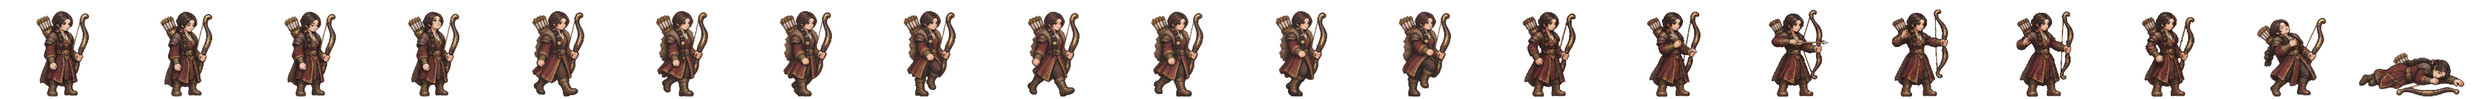
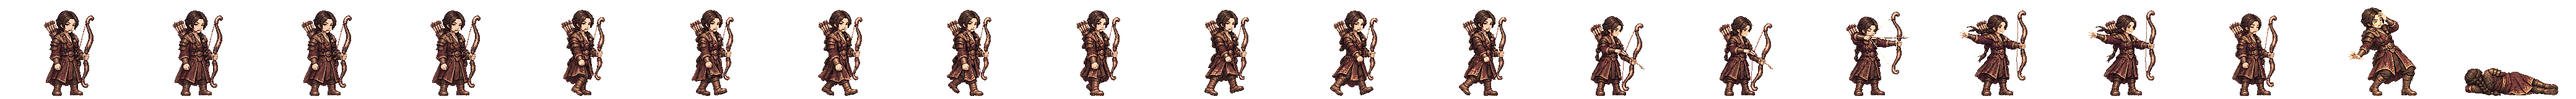
사로 달래 전투 띠를 새 방식으로: 서기·걷기·활 쏘기 네 칸·쓰러짐·맞음 (Codex 그림 · 개성 동작은 그림 도구 거절로 없음 · 활 쏘기는 한 번 다시 받음 · 활 길이 서기의 79~90%)
Claude-Session: https://claude.ai/code/session_01TRiuN7s6aDfSnaHxrkctmU

Changed region(s): [[0.0, 0.0938, 1.0, 0.9688]]

diff --git a/src/realm/data/spritePx.ts b/src/realm/data/spritePx.ts
@@ -1,3 +1,3 @@
 /** public/realm/anim-px/manifest.json 의 사본 — tools/sprite-normalize.mjs 가 만든다 (손으로 고치지 말 것). 칸 [가로, 세로] · feet = 발 줄(칸 위에서 y) · bodyPx = 서 있는 몸 키 */
 import { expandManifest } from './sprite-manifest.ts'
-export const SPRITE_PX: Readonly<Record<string, { readonly cell: readonly [number, number]; readonly feet: number; readonly bodyPx: number; readonly kind: 'general' | 'soldier' | 'folk' | 'crowd'; readonly cells: number }>> = expandManifest<{ readonly cell: readonly [number, number]; readonly feet: number; readonly bodyPx: number; readonly kind: 'general' | 'soldier' | 'folk' | 'crowd'; readonly cells: number }>([{"cell":[166,128],"feet":126,"bodyPx":124,"kind":"soldier","cells":20},{"cell":[116,128],"feet":126,"bodyPx":117,"kind":"soldier","cells":20},{"cell":[127,128],"feet":126,"bodyPx":116,"kind":"soldier","cells":20},{"cell":[269,128],"feet":126,"bodyPx":126,"kind":"soldier","cells":20},{"cell":[503,128],"feet":126,"bodyPx":127,"kind":"soldier","cells":20},{"cell":[614,128],"feet":126,"bodyPx":126,"kind":"soldier","cells":20},{"cell":[200,160],"feet":156,"bodyPx":138,"kind":"general","cells":20},{"cell":[208,160],"feet":155,"bodyPx":138,"kind":"general","cells":20},{"cell":[208,160],"feet":154,"bodyPx":138,"kind":"general","cells":20},{"cell":[304,160],"feet":155,"bodyPx":135,"kind":"general","cells":20},{"cell":[184,160],"feet":156,"bodyPx":138,"kind":"general","cells":20},{"cell":[208,160],"feet":154,"bodyPx":136,"kind":"general","cells":20},{"cell":[232,160],"feet":156,"bodyPx":138,"kind":"general","cells":20},{"cell":[208,160],"feet":156,"bodyPx":138,"kind":"general","cells":20},{"cell":[168,160],"feet":156,"bodyPx":124,"kind":"general","cells":20},{"cell":[216,160],"feet":156,"bodyPx":130,"kind":"general","cells":20},{"cell":[200,160],"feet":156,"bodyPx":116,"kind":"general","cells":20},{"cell":[192,160],"feet":156,"bodyPx":138,"kind":"general","cells":20},{"cell":[208,160],"feet":154,"bodyPx":135,"kind":"general","cells":20},{"cell":[280,160],"feet":156,"bodyPx":138,"kind":"general","cells":20},{"cell":[232,160],"feet":156,"bodyPx":134,"kind":"general","cells":20},{"cell":[144,160],"feet":156,"bodyPx":70,"kind":"general","cells":20},{"cell":[208,160],"feet":156,"bodyPx":70,"kind":"general","cells":20},{"cell":[192,160],"feet":156,"bodyPx":70,"kind":"general","cells":20},{"cell":[240,160],"feet":155,"bodyPx":138,"kind":"general","cells":20},{"cell":[192,160],"feet":156,"bodyPx":128,"kind":"general","cells":20},{"cell":[208,160],"feet":154,"bodyPx":137,"kind":"general","cells":20},{"cell":[216,160],"feet":156,"bodyPx":138,"kind":"general","cells":20},{"cell":[208,160],"feet":156,"bodyPx":134,"kind":"general","cells":20},{"cell":[208,160],"feet":154,"bodyPx":130,"kind":"general","cells":20},{"cell":[248,160],"feet":156,"bodyPx":138,"kind":"general","cells":20},{"cell":[248,160],"feet":155,"bodyPx":138,"kind":"general","cells":20},{"cell":[192,160],"feet":155,"bodyPx":138,"kind":"general","cells":20},{"cell":[192,160],"feet":156,"bodyPx":124,"kind":"general","cells":20},{"cell":[208,160],"feet":154,"bodyPx":131,"kind":"general","cells":20},{"cell":[240,160],"feet":156,"bodyPx":138,"kind":"general","cells":20},{"cell":[232,160],"feet":156,"bodyPx":73,"kind":"general","cells":20},{"cell":[224,160],"feet":156,"bodyPx":138,"kind":"general","cells":20},{"cell":[224,160],"feet":156,"bodyPx":128,"kind":"general","cells":20},{"cell":[176,160],"feet":156,"bodyPx":129,"kind":"general","cells":20},{"cell":[208,160],"feet":154,"bodyPx":139,"kind":"general","cells":20},{"cell":[232,160],"feet":155,"bodyPx":138,"kind":"general","cells":20},{"cell":[208,160],"feet":156,"bodyPx":132,"kind":"general","cells":20},{"cell":[184,160],"feet":156,"bodyPx":122,"kind":"general","cells":20},{"cell":[280,160],"feet":155,"bodyPx":133,"kind":"general","cells":20},{"cell":[176,160],"feet":156,"bodyPx":70,"kind":"general","cells":20},{"cell":[186,128],"feet":126,"bodyPx":127,"kind":"soldier","cells":20},{"cell":[298,128],"feet":126,"bodyPx":126,"kind":"soldier","cells":20},{"cell":[82,128],"feet":126,"bodyPx":114,"kind":"folk","cells":8},{"cell":[134,128],"feet":126,"bodyPx":119,"kind":"soldier","cells":20},{"cell":[380,128],"feet":126,"bodyPx":124,"kind":"soldier","cells":20},{"cell":[114,128],"feet":126,"bodyPx":115,"kind":"soldier","cells":20},{"cell":[122,128],"feet":126,"bodyPx":114,"kind":"soldier","cells":20},{"cell":[254,128],"feet":126,"bodyPx":128,"kind":"soldier","cells":20},{"cell":[438,128],"feet":126,"bodyPx":126,"kind":"soldier","cells":20},{"cell":[88,128],"feet":126,"bodyPx":113,"kind":"folk","cells":8},{"cell":[100,128],"feet":126,"bodyPx":115,"kind":"folk","cells":8},{"cell":[108,128],"feet":126,"bodyPx":115,"kind":"folk","cells":8},{"cell":[63,128],"feet":126,"bodyPx":113,"kind":"folk","cells":8},{"cell":[69,96],"feet":96,"bodyPx":96,"kind":"crowd","cells":1},{"cell":[54,96],"feet":96,"bodyPx":96,"kind":"crowd","cells":1},{"cell":[47,96],"feet":96,"bodyPx":96,"kind":"crowd","cells":1},{"cell":[49,96],"feet":96,"bodyPx":96,"kind":"crowd","cells":1},{"cell":[57,96],"feet":96,"bodyPx":96,"kind":"crowd","cells":1},{"cell":[55,96],"feet":96,"bodyPx":96,"kind":"crowd","cells":1},{"cell":[45,96],"feet":96,"bodyPx":96,"kind":"crowd","cells":1},{"cell":[53,96],"feet":96,"bodyPx":96,"kind":"crowd","cells":1},{"cell":[64,96],"feet":96,"bodyPx":96,"kind":"crowd","cells":1},{"cell":[264,160],"feet":156,"bodyPx":138,"kind":"general","cells":20},{"cell":[184,160],"feet":156,"bodyPx":124,"kind":"general","cells":20},{"cell":[256,160],"feet":156,"bodyPx":138,"kind":"general","cells":20},{"cell":[208,160],"feet":154,"bodyPx":134,"kind":"general","cells":20},{"cell":[224,160],"feet":156,"bodyPx":133,"kind":"general","cells":20},{"cell":[184,160],"feet":156,"bodyPx":137,"kind":"general","cells":20},{"cell":[176,160],"feet":156,"bodyPx":130,"kind":"general","cells":20},{"cell":[216,160],"feet":156,"bodyPx":134,"kind":"general","cells":20},{"cell":[216,160],"feet":156,"bodyPx":132,"kind":"general","cells":20},{"cell":[288,160],"feet":156,"bodyPx":138,"kind":"general","cells":20},{"cell":[192,160],"feet":156,"bodyPx":118,"kind":"general","cells":20},{"cell":[208,160],"feet":154,"bodyPx":132,"kind":"general","cells":20},{"cell":[208,160],"feet":154,"bodyPx":128,"kind":"general","cells":20},{"cell":[240,160],"feet":156,"bodyPx":128,"kind":"general","cells":20},{"cell":[184,160],"feet":156,"bodyPx":132,"kind":"general","cells":20},{"cell":[208,160],"feet":156,"bodyPx":123,"kind":"general","cells":20},{"cell":[192,160],"feet":156,"bodyPx":135,"kind":"general","cells":20},{"cell":[176,160],"feet":156,"bodyPx":116,"kind":"general","cells":20},{"cell":[272,160],"feet":156,"bodyPx":138,"kind":"general","cells":20},{"cell":[176,160],"feet":156,"bodyPx":138,"kind":"general","cells":20},{"cell":[176,160],"feet":156,"bodyPx":122,"kind":"general","cells":20},{"cell":[232,160],"feet":156,"bodyPx":127,"kind":"general","cells":20},{"cell":[184,160],"feet":156,"bodyPx":134,"kind":"general","cells":20},{"cell":[168,160],"feet":156,"bodyPx":138,"kind":"general","cells":20},{"cell":[176,160],"feet":156,"bodyPx":137,"kind":"general","cells":20},{"cell":[184,160],"feet":156,"bodyPx":133,"kind":"general","cells":20}],[["axe",0],["bandit-chief",1],["bandit-club",2],["boat",3],["bow",4],["crossbow",5],["gen-adogan",6],["gen-alpyeong",7],["gen-ara",8],["gen-areum",8],["gen-aryeong",9],["gen-bakdal",8],["gen-baram",8],["gen-bdanbi",10],["gen-beom",11],["gen-beombal",8],["gen-beomi",8],["gen-bira",12],["gen-biryu",13],["gen-budeul",8],["gen-byeol",8],["gen-daemusin",14],["gen-daeso",15],["gen-dallae2",8],["gen-dalli",8],["gen-damul",16],["gen-danbi",8],["gen-dangung",17],["gen-darae",18],["gen-dokmudeom",8],["gen-duman",19],["gen-eomni",8],["gen-eureum",20],["gen-g-bow",21],["gen-g-spear",22],["gen-g-sword",23],["gen-gaennae",8],["gen-gamsil",24],["gen-gaon",18],["gen-geota",13],["gen-geumbawi",10],["gen-geumha",25],["gen-goeun",8],["gen-gom",8],["gen-gomok",13],["gen-gureum",8],["gen-guryema",17],["gen-gwaeyu",12],["gen-haebi",8],["gen-haedal",6],["gen-haesol",8],["gen-halla",26],["gen-heo",8],["gen-hneoul",27],["gen-hogong",27],["gen-hojin",13],["gen-horselord",28],["gen-hwalmi",29],["gen-hyeokgeose",17],["gen-hyeopbo",6],["gen-irang",8],["gen-jibaekho",30],["gen-jinha",31],["gen-jita",32],["gen-jumong",33],["gen-keundol",7],["gen-maehwa",34],["gen-maenun",17],["gen-malgalgi",8],["gen-mari",35],["gen-maro",30],["gen-maryeo",13],["gen-mdallae",8],["gen-mir",6],["gen-mount",36],["gen-mulbeom",26],["gen-mulsae",26],["gen-musoe",27],["gen-noeul",8],["gen-nuri",8],["gen-ocheongan",37],["gen-odi",8],["gen-odogan",6],["gen-ogan",17],["gen-oi",38],["gen-olddaeso",20],["gen-onjo",39],["gen-pidogan",13],["gen-sagong",40],["gen-sdallae",6],["gen-sincheongan",8],["gen-singwigan",27],["gen-sinneoul",8],["gen-sobeol",41],["gen-soebi",8],["gen-soebo",42],["gen-soenun",40],["gen-sogeumbi",26],["gen-songbi",8],["gen-songyang",43],["gen-sori",8],["gen-soseono",44],["gen-suro",17],["gen-tahae",6],["gen-tneoul",8],["gen-w-bow",21],["gen-w-spear",45],["gen-waechief",13],["gen-wan",27],["gen-yeodogan",13],["gen-yucheongan",8],["gen-yusugan",30],["horse",46],["marine",47],["migrant",48],["militia",49],["pike",50],["pirate-captain",51],["pirate-sword",52],["shield",53],["spear",54],["villager-builder",55],["villager-farmer",56],["villager-porter",57],["villager-woman",58],["crowd-b1",59],["crowd-b2",60],["crowd-b3",61],["crowd-b4",62],["crowd-b5",63],["crowd-b6",64],["crowd-f1",59],["crowd-f2",64],["crowd-f3",65],["crowd-f4",66],["crowd-f5",59],["crowd-f6",67],["gen-dalbit",13],["gen-base-g-07-drunk-warrior",17],["gen-base-g-40-anya-adan",13],["gen-base-w-13-young-archer",8],["gen-base-g-03-sea-trader",35],["gen-base-w-10-pirate-captain",40],["gen-base-w-64-miri-dallae",40],["gen-base-g-41-goja-bau",35],["gen-base-g-42-dokro-garam",68],["gen-base-g-09-farmer-conscript",27],["gen-base-w-02-goguryeo-lady",8],["gen-base-w-17-mahan-pearl-diver",8],["gen-base-g-17-saro-isageum",42],["gen-base-g-18-daegaya-king",69],["gen-base-g-35-dabeol-dalgu",13],["gen-base-g-19-sabeol-veteran",27],["gen-base-w-23-usisan-whale-queen",8],["gen-base-g-36-gammun-gamdol",37],["gen-base-g-20-samul-sea-lord",70],["gen-base-g-37-eumjeup-jeup",10],["gen-base-g-38-chopal-palmae",17],["gen-base-w-75-daegaya-soemoe",8],["gen-base-g-45-dabeol-deulgae",10],["gen-base-g-04-jinhan-giant",13],["gen-base-g-08-veteran",13],["gen-base-w-18-jinhan-salt-widow",8],["gen-base-w-12-court-dancer",71],["gen-base-w-83-gyeonji-beodeul",72],["gen-base-w-05-baekje-queen",18],["gen-base-w-21-baekje-court-dancer",10],["gen-base-g-01-master-smith",73],["gen-base-g-93-jomun-solgae",74],["gen-base-g-57-bihwa-neup",35],["gen-base-w-72-eumjeup-beol",8],["gen-base-w-102-garak-dana",40],["gen-base-g-68-baekje-onnuri",13],["gen-base-w-27-mokji-jinha",6],["gen-base-g-22-ungcheon-gomnae",6],["gen-base-g-23-sangdang-soedal",13],["gen-base-g-24-wansan-onsan",6],["gen-base-g-25-balla-keunmoe",27],["gen-base-g-61-heomcheuk-bawi",27],["gen-base-g-88-wander-soeul",37],["gen-base-w-14-feast-spy",8],["gen-base-g-12-silla-youth",75],["gen-base-w-08-mahan-warrior",8],["gen-base-g-62-beonye-hanul",35],["gen-base-g-63-heomcheuk-beogeum",13],["gen-base-g-84-wander-seoneul",13],["gen-base-w-50-siljik-mulga",27],["gen-base-g-46-uga-nureongso",27],["gen-base-w-80-usan-gangchi",40],["gen-base-g-47-guga-sanyanggae",27],["gen-base-w-76-gampyeong-baetsagong",8],["gen-base-g-05-mahan-chieftain",76],["gen-base-g-58-usan-uhae",13],["gen-base-g-27-maek-maekdol",13],["gen-base-w-53-hwanna-gabi",40],["gen-base-w-29-golpo-janmul",30],["gen-base-g-53-baekje-haeru",6],["gen-base-w-71-yeonna-neoul",8],["gen-base-w-79-yangmaek-solmae",8],["gen-base-w-34-chopal-deulme",8],["gen-base-g-44-maga-malgup",77],["gen-base-w-31-dabeol-dalbit",40],["gen-base-g-51-biryuna-mulgyeol",37],["gen-base-g-48-gwanna-musoe",13],["gen-base-g-32-uga-sodu",12],["gen-base-g-49-goguryeo-sona",78],["gen-base-g-30-gwanna-soemoe",37],["gen-base-g-52-tamna-oreum",10],["gen-base-g-29-yeonna-myeongsol",33],["gen-base-w-56-dongokjeo-sogeum",71],["gen-base-g-54-mokji-mahan",12],["gen-base-g-33-jeoga-metdol",17],["gen-base-w-36-baekje-maena",8],["gen-base-w-38-sangdang-bulmae",40],["gen-base-w-39-gosaburi-galmae",8],["gen-base-w-40-mujin-munui",79],["gen-base-w-41-hwanna-beodeul",80],["gen-base-w-43-uga-nuri",70],["gen-base-w-45-tamna-oreumbi",10],["gen-base-g-60-golbeol-golgae",10],["gen-base-g-61-apdok-ap",27],["gen-base-g-62-gammun-gamnamu",6],["gen-base-g-63-chopal-yeoul",30],["gen-base-g-64-michuhol-sogeumkkun",35],["gen-base-g-65-sangdang-soemangchi",37],["gen-base-g-66-geonma-malbalgup",81],["gen-base-g-67-gosaburi-buri",82],["gen-base-g-68-mujin-bitgoeul",10],["gen-base-g-69-goryong-yong",37],["gen-base-g-70-siljik-pado",35],["gen-base-w-81-byeokjin-byeolbit",8],["gen-base-w-46-geonma-maru",8],["gen-base-w-48-mujin-mudeung",8],["gen-base-g-26-gampyeong-gaetbeol",12],["gen-base-g-60-eupcha-hangyeol",83],["gen-base-g-15-shaman-man",27],["gen-base-g-85-wander-ure",30],["gen-base-g-43-hwanna-amnok",13],["gen-base-g-50-bullae-gwaha",84],["gen-base-g-55-saro-bakdal",13],["gen-base-g-56-haseulla-gwahama",6],["gen-base-w-06-buyeo-huntress",26],["gen-base-w-22-dongye-tiger-huntress",8],["gen-base-w-25-bihwa-priestess",8],["gen-base-w-24-apdok-queen",8],["gen-base-w-61-iseo-sinae",8],["gen-base-w-26-iseo-tomboy-general",8],["gen-base-g-59-yangmaek-maekson",85],["gen-aw1-haebi",37],["gen-aw1-soseono",86],["gen-aw1-gamsil",10],["gen-aw1-mir",87],["gen-aw1-dangung",6],["gen-aw1-ara",37],["gen-aw1-jumong",88],["gen-aw1-onjo",89],["gen-aw1-base-w-83-gyeonji-beodeul",17],["gen-aw1-heo",68],["gen-aw1-base-g-38-chopal-palmae",6],["gen-aw1-base-w-25-bihwa-priestess",90],["gen-aw1-sori",91],["gen-aw1-gomok",6],["gen-aw1-irang",17],["gen-aw1-budeul",91],["gen-aw1-gom",35],["gen-aw1-sdallae",6],["gen-aw1-base-w-13-young-archer",6],["gen-aw1-base-w-36-baekje-maena",92],["gen-aw1-base-g-09-farmer-conscript",68],["gen-aw1-base-w-02-goguryeo-lady",93],["gen-aw1-haedal",10],["gen-aw1-hogong",6],["gen-aw1-maehwa",87],["gen-aw1-base-w-06-buyeo-huntress",12],["gen-aw1-base-w-08-mahan-warrior",37],["gen-aw1-base-w-29-golpo-janmul",37],["gen-aw1-base-w-31-dabeol-dalbit",17],["gen-aw1-base-w-38-sangdang-bulmae",91],["gen-aw1-bira",27],["gen-aw1-base-w-53-hwanna-gabi",91],["gen-aw1-base-w-56-dongokjeo-sogeum",87],["gen-aw1-base-w-72-eumjeup-beol",17],["gen-aw1-bdanbi",91],["gen-aw1-beom",10],["gen-aw1-beombal",10],["gen-aw1-byeol",17],["gen-aw1-dalli",87],["gen-aw1-malgalgi",30],["gen-aw1-sincheongan",27]])
+export const SPRITE_PX: Readonly<Record<string, { readonly cell: readonly [number, number]; readonly feet: number; readonly bodyPx: number; readonly kind: 'general' | 'soldier' | 'folk' | 'crowd'; readonly cells: number }>> = expandManifest<{ readonly cell: readonly [number, number]; readonly feet: number; readonly bodyPx: number; readonly kind: 'general' | 'soldier' | 'folk' | 'crowd'; readonly cells: number }>([{"cell":[166,128],"feet":126,"bodyPx":124,"kind":"soldier","cells":20},{"cell":[116,128],"feet":126,"bodyPx":117,"kind":"soldier","cells":20},{"cell":[127,128],"feet":126,"bodyPx":116,"kind":"soldier","cells":20},{"cell":[269,128],"feet":126,"bodyPx":126,"kind":"soldier","cells":20},{"cell":[503,128],"feet":126,"bodyPx":127,"kind":"soldier","cells":20},{"cell":[614,128],"feet":126,"bodyPx":126,"kind":"soldier","cells":20},{"cell":[200,160],"feet":156,"bodyPx":138,"kind":"general","cells":20},{"cell":[208,160],"feet":155,"bodyPx":138,"kind":"general","cells":20},{"cell":[208,160],"feet":154,"bodyPx":138,"kind":"general","cells":20},{"cell":[304,160],"feet":155,"bodyPx":135,"kind":"general","cells":20},{"cell":[184,160],"feet":156,"bodyPx":138,"kind":"general","cells":20},{"cell":[208,160],"feet":154,"bodyPx":136,"kind":"general","cells":20},{"cell":[232,160],"feet":156,"bodyPx":138,"kind":"general","cells":20},{"cell":[208,160],"feet":156,"bodyPx":138,"kind":"general","cells":20},{"cell":[168,160],"feet":156,"bodyPx":124,"kind":"general","cells":20},{"cell":[216,160],"feet":156,"bodyPx":130,"kind":"general","cells":20},{"cell":[200,160],"feet":156,"bodyPx":116,"kind":"general","cells":20},{"cell":[192,160],"feet":156,"bodyPx":138,"kind":"general","cells":20},{"cell":[208,160],"feet":154,"bodyPx":135,"kind":"general","cells":20},{"cell":[280,160],"feet":156,"bodyPx":138,"kind":"general","cells":20},{"cell":[232,160],"feet":156,"bodyPx":134,"kind":"general","cells":20},{"cell":[144,160],"feet":156,"bodyPx":70,"kind":"general","cells":20},{"cell":[208,160],"feet":156,"bodyPx":70,"kind":"general","cells":20},{"cell":[192,160],"feet":156,"bodyPx":70,"kind":"general","cells":20},{"cell":[240,160],"feet":155,"bodyPx":138,"kind":"general","cells":20},{"cell":[192,160],"feet":156,"bodyPx":128,"kind":"general","cells":20},{"cell":[208,160],"feet":154,"bodyPx":137,"kind":"general","cells":20},{"cell":[216,160],"feet":156,"bodyPx":138,"kind":"general","cells":20},{"cell":[208,160],"feet":156,"bodyPx":134,"kind":"general","cells":20},{"cell":[208,160],"feet":154,"bodyPx":130,"kind":"general","cells":20},{"cell":[248,160],"feet":156,"bodyPx":138,"kind":"general","cells":20},{"cell":[248,160],"feet":155,"bodyPx":138,"kind":"general","cells":20},{"cell":[192,160],"feet":155,"bodyPx":138,"kind":"general","cells":20},{"cell":[192,160],"feet":156,"bodyPx":124,"kind":"general","cells":20},{"cell":[208,160],"feet":154,"bodyPx":131,"kind":"general","cells":20},{"cell":[240,160],"feet":156,"bodyPx":138,"kind":"general","cells":20},{"cell":[232,160],"feet":156,"bodyPx":73,"kind":"general","cells":20},{"cell":[224,160],"feet":156,"bodyPx":138,"kind":"general","cells":20},{"cell":[224,160],"feet":156,"bodyPx":128,"kind":"general","cells":20},{"cell":[176,160],"feet":156,"bodyPx":129,"kind":"general","cells":20},{"cell":[208,160],"feet":154,"bodyPx":139,"kind":"general","cells":20},{"cell":[232,160],"feet":155,"bodyPx":138,"kind":"general","cells":20},{"cell":[208,160],"feet":156,"bodyPx":132,"kind":"general","cells":20},{"cell":[184,160],"feet":156,"bodyPx":122,"kind":"general","cells":20},{"cell":[280,160],"feet":155,"bodyPx":133,"kind":"general","cells":20},{"cell":[176,160],"feet":156,"bodyPx":70,"kind":"general","cells":20},{"cell":[186,128],"feet":126,"bodyPx":127,"kind":"soldier","cells":20},{"cell":[298,128],"feet":126,"bodyPx":126,"kind":"soldier","cells":20},{"cell":[82,128],"feet":126,"bodyPx":114,"kind":"folk","cells":8},{"cell":[134,128],"feet":126,"bodyPx":119,"kind":"soldier","cells":20},{"cell":[380,128],"feet":126,"bodyPx":124,"kind":"soldier","cells":20},{"cell":[114,128],"feet":126,"bodyPx":115,"kind":"soldier","cells":20},{"cell":[122,128],"feet":126,"bodyPx":114,"kind":"soldier","cells":20},{"cell":[254,128],"feet":126,"bodyPx":128,"kind":"soldier","cells":20},{"cell":[438,128],"feet":126,"bodyPx":126,"kind":"soldier","cells":20},{"cell":[88,128],"feet":126,"bodyPx":113,"kind":"folk","cells":8},{"cell":[100,128],"feet":126,"bodyPx":115,"kind":"folk","cells":8},{"cell":[108,128],"feet":126,"bodyPx":115,"kind":"folk","cells":8},{"cell":[63,128],"feet":126,"bodyPx":113,"kind":"folk","cells":8},{"cell":[69,96],"feet":96,"bodyPx":96,"kind":"crowd","cells":1},{"cell":[54,96],"feet":96,"bodyPx":96,"kind":"crowd","cells":1},{"cell":[47,96],"feet":96,"bodyPx":96,"kind":"crowd","cells":1},{"cell":[49,96],"feet":96,"bodyPx":96,"kind":"crowd","cells":1},{"cell":[57,96],"feet":96,"bodyPx":96,"kind":"crowd","cells":1},{"cell":[55,96],"feet":96,"bodyPx":96,"kind":"crowd","cells":1},{"cell":[45,96],"feet":96,"bodyPx":96,"kind":"crowd","cells":1},{"cell":[53,96],"feet":96,"bodyPx":96,"kind":"crowd","cells":1},{"cell":[64,96],"feet":96,"bodyPx":96,"kind":"crowd","cells":1},{"cell":[264,160],"feet":156,"bodyPx":138,"kind":"general","cells":20},{"cell":[184,160],"feet":156,"bodyPx":124,"kind":"general","cells":20},{"cell":[256,160],"feet":156,"bodyPx":138,"kind":"general","cells":20},{"cell":[208,160],"feet":154,"bodyPx":134,"kind":"general","cells":20},{"cell":[224,160],"feet":156,"bodyPx":133,"kind":"general","cells":20},{"cell":[184,160],"feet":156,"bodyPx":137,"kind":"general","cells":20},{"cell":[176,160],"feet":156,"bodyPx":130,"kind":"general","cells":20},{"cell":[216,160],"feet":156,"bodyPx":134,"kind":"general","cells":20},{"cell":[216,160],"feet":156,"bodyPx":132,"kind":"general","cells":20},{"cell":[288,160],"feet":156,"bodyPx":138,"kind":"general","cells":20},{"cell":[192,160],"feet":156,"bodyPx":118,"kind":"general","cells":20},{"cell":[208,160],"feet":154,"bodyPx":132,"kind":"general","cells":20},{"cell":[208,160],"feet":154,"bodyPx":128,"kind":"general","cells":20},{"cell":[240,160],"feet":156,"bodyPx":128,"kind":"general","cells":20},{"cell":[184,160],"feet":156,"bodyPx":132,"kind":"general","cells":20},{"cell":[208,160],"feet":156,"bodyPx":123,"kind":"general","cells":20},{"cell":[192,160],"feet":156,"bodyPx":135,"kind":"general","cells":20},{"cell":[176,160],"feet":156,"bodyPx":116,"kind":"general","cells":20},{"cell":[272,160],"feet":156,"bodyPx":138,"kind":"general","cells":20},{"cell":[176,160],"feet":156,"bodyPx":138,"kind":"general","cells":20},{"cell":[176,160],"feet":156,"bodyPx":122,"kind":"general","cells":20},{"cell":[232,160],"feet":156,"bodyPx":127,"kind":"general","cells":20},{"cell":[184,160],"feet":156,"bodyPx":134,"kind":"general","cells":20},{"cell":[168,160],"feet":156,"bodyPx":138,"kind":"general","cells":20},{"cell":[176,160],"feet":156,"bodyPx":137,"kind":"general","cells":20},{"cell":[184,160],"feet":156,"bodyPx":133,"kind":"general","cells":20}],[["axe",0],["bandit-chief",1],["bandit-club",2],["boat",3],["bow",4],["crossbow",5],["gen-adogan",6],["gen-alpyeong",7],["gen-ara",8],["gen-areum",8],["gen-aryeong",9],["gen-bakdal",8],["gen-baram",8],["gen-bdanbi",10],["gen-beom",11],["gen-beombal",8],["gen-beomi",8],["gen-bira",12],["gen-biryu",13],["gen-budeul",8],["gen-byeol",8],["gen-daemusin",14],["gen-daeso",15],["gen-dallae2",8],["gen-dalli",8],["gen-damul",16],["gen-danbi",8],["gen-dangung",17],["gen-darae",18],["gen-dokmudeom",8],["gen-duman",19],["gen-eomni",8],["gen-eureum",20],["gen-g-bow",21],["gen-g-spear",22],["gen-g-sword",23],["gen-gaennae",8],["gen-gamsil",24],["gen-gaon",18],["gen-geota",13],["gen-geumbawi",10],["gen-geumha",25],["gen-goeun",8],["gen-gom",8],["gen-gomok",13],["gen-gureum",8],["gen-guryema",17],["gen-gwaeyu",12],["gen-haebi",8],["gen-haedal",6],["gen-haesol",8],["gen-halla",26],["gen-heo",8],["gen-hneoul",27],["gen-hogong",27],["gen-hojin",13],["gen-horselord",28],["gen-hwalmi",29],["gen-hyeokgeose",17],["gen-hyeopbo",6],["gen-irang",8],["gen-jibaekho",30],["gen-jinha",31],["gen-jita",32],["gen-jumong",33],["gen-keundol",7],["gen-maehwa",34],["gen-maenun",17],["gen-malgalgi",8],["gen-mari",35],["gen-maro",30],["gen-maryeo",13],["gen-mdallae",8],["gen-mir",6],["gen-mount",36],["gen-mulbeom",26],["gen-mulsae",26],["gen-musoe",27],["gen-noeul",8],["gen-nuri",8],["gen-ocheongan",37],["gen-odi",8],["gen-odogan",6],["gen-ogan",17],["gen-oi",38],["gen-olddaeso",20],["gen-onjo",39],["gen-pidogan",13],["gen-sagong",40],["gen-sdallae",8],["gen-sincheongan",8],["gen-singwigan",27],["gen-sinneoul",8],["gen-sobeol",41],["gen-soebi",8],["gen-soebo",42],["gen-soenun",40],["gen-sogeumbi",26],["gen-songbi",8],["gen-songyang",43],["gen-sori",8],["gen-soseono",44],["gen-suro",17],["gen-tahae",6],["gen-tneoul",8],["gen-w-bow",21],["gen-w-spear",45],["gen-waechief",13],["gen-wan",27],["gen-yeodogan",13],["gen-yucheongan",8],["gen-yusugan",30],["horse",46],["marine",47],["migrant",48],["militia",49],["pike",50],["pirate-captain",51],["pirate-sword",52],["shield",53],["spear",54],["villager-builder",55],["villager-farmer",56],["villager-porter",57],["villager-woman",58],["crowd-b1",59],["crowd-b2",60],["crowd-b3",61],["crowd-b4",62],["crowd-b5",63],["crowd-b6",64],["crowd-f1",59],["crowd-f2",64],["crowd-f3",65],["crowd-f4",66],["crowd-f5",59],["crowd-f6",67],["gen-dalbit",13],["gen-base-g-07-drunk-warrior",17],["gen-base-g-40-anya-adan",13],["gen-base-w-13-young-archer",8],["gen-base-g-03-sea-trader",35],["gen-base-w-10-pirate-captain",40],["gen-base-w-64-miri-dallae",40],["gen-base-g-41-goja-bau",35],["gen-base-g-42-dokro-garam",68],["gen-base-g-09-farmer-conscript",27],["gen-base-w-02-goguryeo-lady",8],["gen-base-w-17-mahan-pearl-diver",8],["gen-base-g-17-saro-isageum",42],["gen-base-g-18-daegaya-king",69],["gen-base-g-35-dabeol-dalgu",13],["gen-base-g-19-sabeol-veteran",27],["gen-base-w-23-usisan-whale-queen",8],["gen-base-g-36-gammun-gamdol",37],["gen-base-g-20-samul-sea-lord",70],["gen-base-g-37-eumjeup-jeup",10],["gen-base-g-38-chopal-palmae",17],["gen-base-w-75-daegaya-soemoe",8],["gen-base-g-45-dabeol-deulgae",10],["gen-base-g-04-jinhan-giant",13],["gen-base-g-08-veteran",13],["gen-base-w-18-jinhan-salt-widow",8],["gen-base-w-12-court-dancer",71],["gen-base-w-83-gyeonji-beodeul",72],["gen-base-w-05-baekje-queen",18],["gen-base-w-21-baekje-court-dancer",10],["gen-base-g-01-master-smith",73],["gen-base-g-93-jomun-solgae",74],["gen-base-g-57-bihwa-neup",35],["gen-base-w-72-eumjeup-beol",8],["gen-base-w-102-garak-dana",40],["gen-base-g-68-baekje-onnuri",13],["gen-base-w-27-mokji-jinha",6],["gen-base-g-22-ungcheon-gomnae",6],["gen-base-g-23-sangdang-soedal",13],["gen-base-g-24-wansan-onsan",6],["gen-base-g-25-balla-keunmoe",27],["gen-base-g-61-heomcheuk-bawi",27],["gen-base-g-88-wander-soeul",37],["gen-base-w-14-feast-spy",8],["gen-base-g-12-silla-youth",75],["gen-base-w-08-mahan-warrior",8],["gen-base-g-62-beonye-hanul",35],["gen-base-g-63-heomcheuk-beogeum",13],["gen-base-g-84-wander-seoneul",13],["gen-base-w-50-siljik-mulga",27],["gen-base-g-46-uga-nureongso",27],["gen-base-w-80-usan-gangchi",40],["gen-base-g-47-guga-sanyanggae",27],["gen-base-w-76-gampyeong-baetsagong",8],["gen-base-g-05-mahan-chieftain",76],["gen-base-g-58-usan-uhae",13],["gen-base-g-27-maek-maekdol",13],["gen-base-w-53-hwanna-gabi",40],["gen-base-w-29-golpo-janmul",30],["gen-base-g-53-baekje-haeru",6],["gen-base-w-71-yeonna-neoul",8],["gen-base-w-79-yangmaek-solmae",8],["gen-base-w-34-chopal-deulme",8],["gen-base-g-44-maga-malgup",77],["gen-base-w-31-dabeol-dalbit",40],["gen-base-g-51-biryuna-mulgyeol",37],["gen-base-g-48-gwanna-musoe",13],["gen-base-g-32-uga-sodu",12],["gen-base-g-49-goguryeo-sona",78],["gen-base-g-30-gwanna-soemoe",37],["gen-base-g-52-tamna-oreum",10],["gen-base-g-29-yeonna-myeongsol",33],["gen-base-w-56-dongokjeo-sogeum",71],["gen-base-g-54-mokji-mahan",12],["gen-base-g-33-jeoga-metdol",17],["gen-base-w-36-baekje-maena",8],["gen-base-w-38-sangdang-bulmae",40],["gen-base-w-39-gosaburi-galmae",8],["gen-base-w-40-mujin-munui",79],["gen-base-w-41-hwanna-beodeul",80],["gen-base-w-43-uga-nuri",70],["gen-base-w-45-tamna-oreumbi",10],["gen-base-g-60-golbeol-golgae",10],["gen-base-g-61-apdok-ap",27],["gen-base-g-62-gammun-gamnamu",6],["gen-base-g-63-chopal-yeoul",30],["gen-base-g-64-michuhol-sogeumkkun",35],["gen-base-g-65-sangdang-soemangchi",37],["gen-base-g-66-geonma-malbalgup",81],["gen-base-g-67-gosaburi-buri",82],["gen-base-g-68-mujin-bitgoeul",10],["gen-base-g-69-goryong-yong",37],["gen-base-g-70-siljik-pado",35],["gen-base-w-81-byeokjin-byeolbit",8],["gen-base-w-46-geonma-maru",8],["gen-base-w-48-mujin-mudeung",8],["gen-base-g-26-gampyeong-gaetbeol",12],["gen-base-g-60-eupcha-hangyeol",83],["gen-base-g-15-shaman-man",27],["gen-base-g-85-wander-ure",30],["gen-base-g-43-hwanna-amnok",13],["gen-base-g-50-bullae-gwaha",84],["gen-base-g-55-saro-bakdal",13],["gen-base-g-56-haseulla-gwahama",6],["gen-base-w-06-buyeo-huntress",26],["gen-base-w-22-dongye-tiger-huntress",8],["gen-base-w-25-bihwa-priestess",8],["gen-base-w-24-apdok-queen",8],["gen-base-w-61-iseo-sinae",8],["gen-base-w-26-iseo-tomboy-general",8],["gen-base-g-59-yangmaek-maekson",85],["gen-aw1-haebi",37],["gen-aw1-soseono",86],["gen-aw1-gamsil",10],["gen-aw1-mir",87],["gen-aw1-dangung",6],["gen-aw1-ara",37],["gen-aw1-jumong",88],["gen-aw1-onjo",89],["gen-aw1-base-w-83-gyeonji-beodeul",17],["gen-aw1-heo",68],["gen-aw1-base-g-38-chopal-palmae",6],["gen-aw1-base-w-25-bihwa-priestess",90],["gen-aw1-sori",91],["gen-aw1-gomok",6],["gen-aw1-irang",17],["gen-aw1-budeul",91],["gen-aw1-gom",35],["gen-aw1-sdallae",6],["gen-aw1-base-w-13-young-archer",6],["gen-aw1-base-w-36-baekje-maena",92],["gen-aw1-base-g-09-farmer-conscript",68],["gen-aw1-base-w-02-goguryeo-lady",93],["gen-aw1-haedal",10],["gen-aw1-hogong",6],["gen-aw1-maehwa",87],["gen-aw1-base-w-06-buyeo-huntress",12],["gen-aw1-base-w-08-mahan-warrior",37],["gen-aw1-base-w-29-golpo-janmul",37],["gen-aw1-base-w-31-dabeol-dalbit",17],["gen-aw1-base-w-38-sangdang-bulmae",91],["gen-aw1-bira",27],["gen-aw1-base-w-53-hwanna-gabi",91],["gen-aw1-base-w-56-dongokjeo-sogeum",87],["gen-aw1-base-w-72-eumjeup-beol",17],["gen-aw1-bdanbi",91],["gen-aw1-beom",10],["gen-aw1-beombal",10],["gen-aw1-byeol",17],["gen-aw1-dalli",87],["gen-aw1-malgalgi",30],["gen-aw1-sincheongan",27]])

diff --git a/src/duel/view.ts b/src/duel/view.ts
@@ -100,7 +100,7 @@ const crowdFront = [1, 2, 3, 4, 5, 6].map((i) => img(`realm/duel/crowd/b${i}.png
 const crowdReady = (set: HTMLImageElement[]): boolean => set.every((im) => im.complete && im.naturalWidth > 0)
 const pxMode = cfg.px !== false && params.get('px') !== '0'
 /** 겨루기 전용 옛 띠(duel/sprites) 대신 열전과 같은 도트 띠(anim-px)를 쓰는 장수 — 두 판에서 같은 모습 · 서기 계획·쓰러지는 칸도 같다 (11-23 범 · 매화 · 달빛 · 11-24 해비 · 아룸) */
-const PX_DUEL: ReadonlySet<string> = new Set(['beom', 'maehwa', 'base-w-31-dabeol-dalbit', 'haebi', 'areum', 'base-w-13-young-archer', 'base-w-10-pirate-captain', 'base-w-17-mahan-pearl-diver', 'base-w-06-buyeo-huntress', 'base-w-64-miri-dallae', 'ara', 'base-w-22-dongye-tiger-huntress', 'noeul', 'sagong', 'sinneoul', 'heo', 'base-w-08-mahan-warrior', 'base-w-23-usisan-whale-queen', 'base-w-26-iseo-tomboy-general', 'base-w-72-eumjeup-beol', 'tneoul', 'odi', 'base-w-76-gampyeong-baetsagong', 'base-w-34-chopal-deulme', 'base-w-102-garak-dana', 'base-w-36-baekje-maena', 'base-w-56-dongokjeo-sogeum', 'budeul', 'base-w-53-hwanna-gabi', 'base-w-18-jinhan-salt-widow', 'beombal', 'irang', 'sogeumbi', 'baram', 'byeol', 'base-w-71-yeonna-neoul', 'base-w-39-gosaburi-galmae', 'base-w-41-hwanna-beodeul', 'base-w-79-yangmaek-solmae', 'base-w-46-geonma-maru', 'base-w-48-mujin-mudeung', 'base-w-80-usan-gangchi', 'base-w-81-byeokjin-byeolbit', 'beomi', 'danbi', 'dalli', 'gureum', 'haesol', 'soenun', 'eomni', 'mulbeom', 'mulsae', 'bakdal', 'darae', 'sori', 'base-w-12-court-dancer', 'hwalmi', 'gaennae', 'dokmudeom', 'base-w-14-feast-spy', 'base-w-25-bihwa-priestess', 'sincheongan', 'base-w-40-mujin-munui', 'halla', 'yucheongan', 'base-w-02-goguryeo-lady', 'gaon', 'base-w-24-apdok-queen', 'base-w-61-iseo-sinae', 'goeun', 'base-w-05-baekje-queen', 'mdallae', 'nuri', 'base-w-75-daegaya-soemoe', 'soebi', 'base-w-38-sangdang-bulmae', 'gom', 'songbi', 'malgalgi', 'dallae2', 'hneoul'])
+const PX_DUEL: ReadonlySet<string> = new Set(['beom', 'maehwa', 'base-w-31-dabeol-dalbit', 'haebi', 'areum', 'base-w-13-young-archer', 'base-w-10-pirate-captain', 'base-w-17-mahan-pearl-diver', 'base-w-06-buyeo-huntress', 'base-w-64-miri-dallae', 'ara', 'base-w-22-dongye-tiger-huntress', 'noeul', 'sagong', 'sinneoul', 'heo', 'base-w-08-mahan-warrior', 'base-w-23-usisan-whale-queen', 'base-w-26-iseo-tomboy-general', 'base-w-72-eumjeup-beol', 'tneoul', 'odi', 'base-w-76-gampyeong-baetsagong', 'base-w-34-chopal-deulme', 'base-w-102-garak-dana', 'base-w-36-baekje-maena', 'base-w-56-dongokjeo-sogeum', 'budeul', 'base-w-53-hwanna-gabi', 'base-w-18-jinhan-salt-widow', 'beombal', 'irang', 'sogeumbi', 'baram', 'byeol', 'base-w-71-yeonna-neoul', 'base-w-39-gosaburi-galmae', 'base-w-41-hwanna-beodeul', 'base-w-79-yangmaek-solmae', 'base-w-46-geonma-maru', 'base-w-48-mujin-mudeung', 'base-w-80-usan-gangchi', 'base-w-81-byeokjin-byeolbit', 'beomi', 'danbi', 'dalli', 'gureum', 'haesol', 'soenun', 'eomni', 'mulbeom', 'mulsae', 'bakdal', 'darae', 'sori', 'base-w-12-court-dancer', 'hwalmi', 'gaennae', 'dokmudeom', 'base-w-14-feast-spy', 'base-w-25-bihwa-priestess', 'sincheongan', 'base-w-40-mujin-munui', 'halla', 'yucheongan', 'base-w-02-goguryeo-lady', 'gaon', 'base-w-24-apdok-queen', 'base-w-61-iseo-sinae', 'goeun', 'base-w-05-baekje-queen', 'mdallae', 'nuri', 'base-w-75-daegaya-soemoe', 'soebi', 'base-w-38-sangdang-bulmae', 'gom', 'songbi', 'malgalgi', 'dallae2', 'hneoul', 'sdallae'])
 /** 띠 그림 — 기본은 anim-px(도트 규격) 먼저, 없으면 옛 띠로 (img 의 onerror 가 갈아 끼운다) */
 const strip = (s: string): HTMLImageElement => pxMode
   ? DUEL_ATLASES[s] !== undefined && !PX_DUEL.has(s) ? img(`realm/duel/sprites/gen-${s}.png`, `realm/anim-px/gen-${s}.png`)

diff --git a/src/tune/params.ts b/src/tune/params.ts
@@ -1541,6 +1541,7 @@ export const HAEBI_IDLE = {
     malgalgi: { cells: 38, base: [0, 1], hold: 2.4, fall: [18, 20, 21, 19], quirk: [22, 23, 24, 25], quirkTimes: [.3, .32, .4, .28], attack: { cells: [26, 27, 28, 29, 30, 31, 32, 33], times: [.09, .08, .22, .05, .15, .07, .08, .12], hit: 4 }, hurt: [34, 35], rise: [36, 37], xGeom: { h: 224, root: 92, foot: 216 } },
     dallae2: { cells: 38, base: [0, 1], hold: 2.4, fall: [18, 20, 21, 19], quirk: [22, 23, 24, 25], quirkTimes: [.3, .32, .4, .28], attack: { cells: [26, 27, 28, 29, 30, 31, 32, 33], times: [.09, .08, .11, .05, .15, .07, .08, .12], hit: 4 }, hurt: [34, 35], rise: [36, 37], xGeom: { h: 224, root: 92, foot: 216 } },
     hneoul: { cells: 30, base: [0, 1], hold: 2.4, fall: [18, 20, 21, 19], quirk: [22, 23, 24, 25], quirkTimes: [.28, .3, .42, .25], hurt: [26, 27], rise: [28, 29] },
+    sdallae: { cells: 26, base: [0, 1], hold: 2.4, fall: [18, 20, 21, 19], hurt: [22, 23], rise: [24, 25] },
   },
 } as const
 export const HAEBI_ANIM = {

diff --git a/tools/sprite-kit/anim-harness.py b/tools/sprite-kit/anim-harness.py
@@ -75,6 +75,7 @@ HEROES = {
     'hwalmi': dict(hit=True, strip='gen-hwalmi', atk='bow', atk8=False),   # 고구려 활미(활 · 가슴 M) · 아홉째 묶음
     'wan': dict(strip='gen-wan', atk='bow', atk8=False),   # 완산 완(활 · 가슴 M) · 아홉째 묶음
     'hneoul': dict(hit=True, strip='gen-hneoul', atk='bow', atk8=False),   # 행인 너울(활 · 가는 몸 · 가슴 M) · 열셋째 묶음
+    'sdallae': dict(hit=True, strip='gen-sdallae', atk='bow', atk8=False),   # 사로 달래(활 · 가슴 M) · 열셋째 묶음
     'sogeum': dict(hit=True, strip='gen-base-w-56-dongokjeo-sogeum', atk='slash', atk8=True, act=True, legacy=(('a', 1), ('a', 3), ('b', 2), ('b', 4))),   # 동옥저 소금 상인(단검 · 가슴 XL) · 좁은 칸은 아라처럼 덜 뻗은 칸
     'budeul': dict(hit=True, strip='gen-budeul', atk='slash', atk8=True, act=True, legacy=(('a', 1), ('a', 3), ('b', 2), ('b', 4))),   # 골벌 부들(단검 · 가슴 L)
     'gabi': dict(hit=True, strip='gen-base-w-53-hwanna-gabi', atk='slash', atk8=True, act=True, legacy=(('a', 1), ('a', 3), ('b', 2), ('b', 4))),   # 환나 가비(단검 · 가슴 L)
